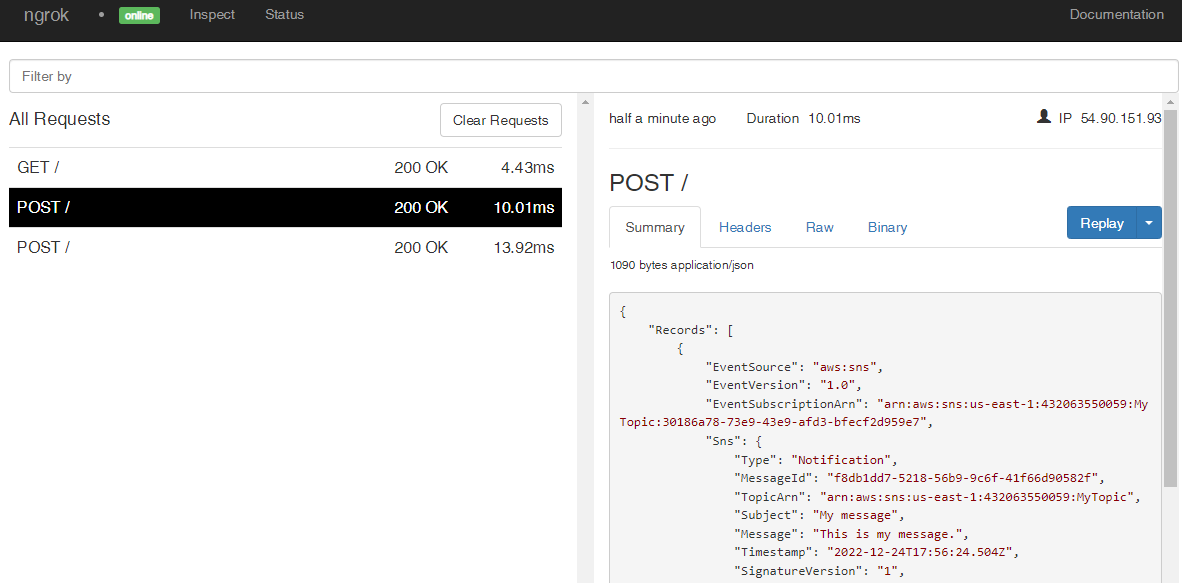
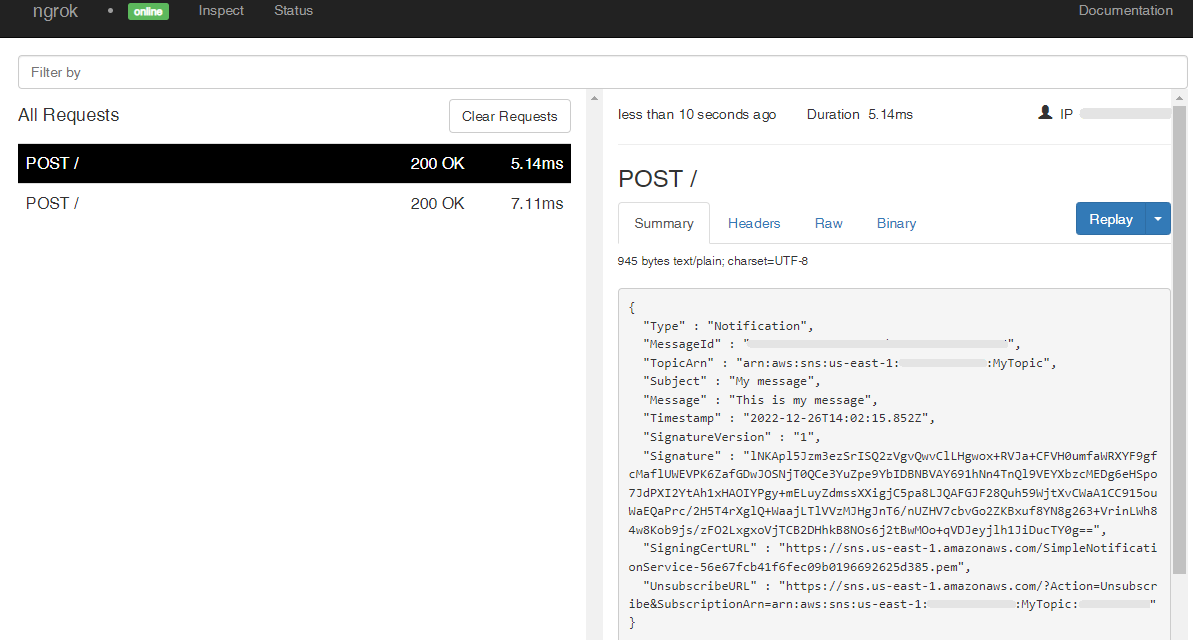
Amazon SNS, after grammarly review

diff --git a/docs/integrations/amazonsns/webhooks.md b/docs/integrations/amazonsns/webhooks.md
@@ -80,69 +80,29 @@ Create an Amazon SNS topic:
 
 1. On the AWS dashboard, enter `sns` in the search bar and then click the **Simple Notification Service** link that appears in the list.
 
-1. On the Amazon SNS **Dashboard**, click **Topics** on the left menu, and then click **Create topic**.
+1. On the Amazon SNS **Dashboard** page, click **Topics** on the left menu, and then click **Create topic**.
 
 1. On the **Create topic** page, click the **Standard** tile, enter `MyTopic` in the **Name** field, and then click **Create topic**.
 
-Create an Amazon Lambda function:
+1. Click **Subscriptions** on the left menu and then click **Create subscription**.
 
-1. Enter `Lambda` in the search bar on the top of the screen and then click **Lambda**.
+1. On the **Create subscription** page, select your topic in the **Topic ARN** field, select **HTTPS** in the **Protocol** field, enter the URL provided by the ngrok agent to expose your application to the internet in the **Endpoint** field (i.e. `https://1a2b-3c4d-5e6f-7g8h-9i0j.sa.ngrok.io`).
+    ![Endpoint](img/ngrok_url_configuration_amazonsns.png)
 
-1. On the **Functions** page, click **Create function**.
+1. Click **Create subscription**.
 
-1. On the **Create function** page, enter `myFunctionName` in the **Function name** field, make sure a version of Node.js is selected in the **Runtime** combobox, and then click **Create function**.
+1. Confirm your localhost app receives a **SubscriptionConfirmation** notification and logs both headers and body in the terminal.
 
-1. On the **myFunctionName**, delete the **index.mjs** file in the **Code source** section, create a new file and name it `index.js`.
+1. Copy the value of the **SubscribeURL** field from the body of the request.
 
-1. Double click the **index.js** file and paste the following code in the right pane:
-    ```JavaScript
-    const https = require('https')
-    const url = "https://1a2b-3c4d-5e6f-7g8h-9i0j.sa.ngrok.io"
-    exports.handler = async function(event, context) {
-        const dataString = JSON.stringify(event)
-        const options = {
-            method: 'POST',
-            headers: {'Content-Type': 'application/json','Content-Length': dataString.length,},
-            timeout: 1000
-        }
-        return new Promise((resolve, reject) => {
-            const req = https.request(url, options, (res) => {
-                if (res.statusCode < 200 || res.statusCode > 299)
-                    return reject(new Error(`HTTP status code ${res.statusCode}`))
-                const body = []
-                res.on('data', (chunk) => body.push(chunk))
-                res.on('end', () => {
-                    const resString = Buffer.concat(body).toString()
-                    resolve(resString)
-                })
-            })
-            req.on('error', (err) => {
-                reject(err)
-            })
-            req.on('timeout', () => {
-                req.destroy()
-                reject(new Error('Request time out.'))
-            })
-            req.write(dataString)
-            req.end()
-        })
-    }
-    ```
+1. On the Amazon SNS **Subscriptions** page, select the **Pending confirmation** subscription from the list, click **Confirm subscription**, enter the value of the **SubscribeURL** in the **url** field, and then click **Confirm subscription**.
 
-    **Note**: Replace the value of the **urL** variable (i.e. `https://1a2b-3c4d-5e6f-7g8h-9i0j.sa.ngrok.io`) with the URL provided by the ngrok agent to expose your application to the internet.
-
-1. Click **Deploy** and then click **Test**.
-
-    Confirm your localhost app receives a notification and logs both headers and body in the terminal.
-
-1. In the **Function overview** section, click **Add trigger**.
-
-1. On the **Add trigger** page, select **SNS** in the **Select a source** combobox, enter your topic name in the **SNS topic**, and then click **Add**.
+    The **Subscription was confirmed successfully.** message appears.
 
 
 ### Run Webhooks with Amazon SNS and ngrok
 
-Any message published to the Amazon SNS topic triggers the Lambda function. The Node.js code of the Lambda function sends a post request to your local app.
+Any message published to the Amazon SNS topic triggers your HTTPS subscription.
 To publish a message to the SNS topic, follow the steps below:
 
 1. On the AWS dashboard, enter `sns` in the search bar and then click the **Simple Notification Service** link that appears in the list.
@@ -177,7 +137,7 @@ The ngrok Request Inspector provides a replay function that you can use to test 
 
 1. Click **Replay** to execute the same request to your application or select **Replay with modifications** to modify the content of the original request before sending the request.
 
-1. If you choose to **Replay with modifications**, you can modify any content from the original request. For example, you can modify the **id** field inside the body of the request.
+1. If you choose to **Replay with modifications**, you can modify any content from the original request. For example, you can modify the **Message** field inside the body of the request.
 
 1. Click **Replay**.
 
@@ -192,17 +152,11 @@ The ngrok signature webhook verification feature allows ngrok to assert that req
 
 This is a quick step to add extra protection to your application.
 
-1. Access [Amazon SNS Developer](https://developer.Amazon SNS/).
-
-1. On the top menu of the developer site, click **DEVELOPER TOOLS** and then click **Webhooks**.
-
-1. On the **Webhooks** page, click **Copy** to copy the **Secret** value.
-
-1. Restart your ngrok agent by running the command, replacing `{your webhook secret}` with the value you have copied before (See [Integrate ngrok and Amazon SNS.](#setup-webhook)):
+1. Restart your ngrok agent by running the following command:
     ```bash
-    ngrok http 3000 --verify-webhook amazonsns --verify-webhook-secret {your webhook secret}
+    ngrok http 3000 --verify-webhook sns
     ```
 
-1. Access [Amazon SNS](https://Amazon SNS/) and create a new project.
+1. Access [Amazon Cloud Service](https://aws.amazon.com/), sign in using your Amazon account, access the Amazon SNS **Dashboard** page, and publish a new message to your topic.
 
 Verify that your local application receives the request and logs information to the terminal.
